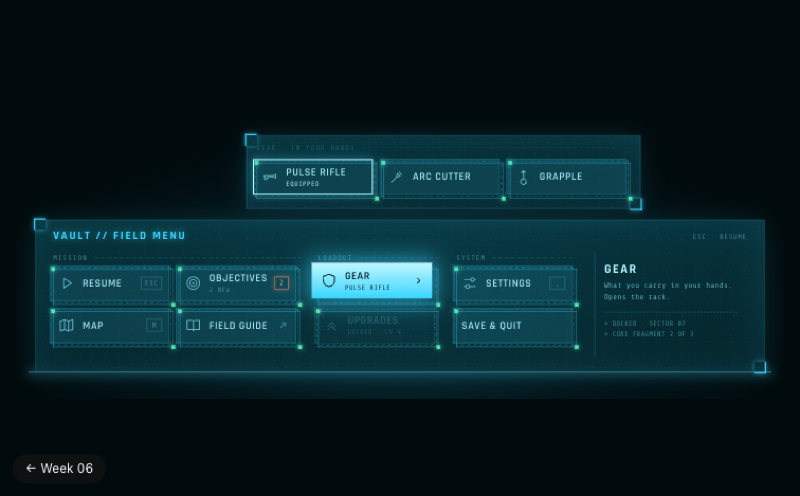
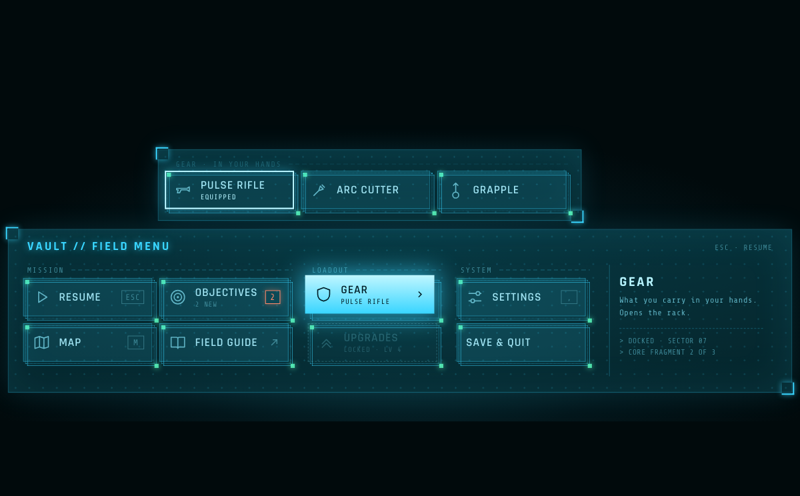
Week 06 Vault: every box grows out of what was pressed. The board's glass and corners start on the MENU prompt (no line of light); the Gear rack starts on Gear and rises above the board, centred over it; closing draws each back onto what opened it. Spec, captions and open thumbnail updated

Changed region(s): [[0.0, 0.2722, 1.0, 0.8468], [0.0312, 0.9375, 0.125, 0.9677]]

diff --git a/week-06/week-06-vault-menu.html b/week-06/week-06-vault-menu.html
@@ -5,13 +5,13 @@
   <meta name="viewport" content="width=device-width, initial-scale=1" />
   <title>Week 06 · Set 1 · Vault · In use and every state</title>
   <link rel="icon" href="../shared/favicon.svg" type="image/svg+xml" />
-  <link rel="stylesheet" href="week-06-vault.css?v=9" />
+  <link rel="stylesheet" href="week-06-vault.css?v=12" />
   <style>
   /* In use: the field menu of VAULT, a sci-fi salvage game, on its own. Shut, it is a MENU prompt.
-     Opened (the prompt, or Tab), a board of glass rises out of a line of light, seen straight on. Its items are wide, low boxes in sections, each built in steps like
+     Opened (the prompt, or Tab), a board of glass grows out of the prompt itself, seen straight on. Its items are wide, low boxes in sections, each built in steps like
      stacked frames. Point at a box and it steps up and fills with light; press it and it lights right
-     through. Gear opens a submenu: a second, smaller board stacked above the first. Esc, Resume or a
-     click outside takes it all down again, right to left, and folds the glass back into its line. */
+     through. Gear opens a submenu: a rack that grows out of Gear and rises above the board. Esc, Resume or a
+     click outside takes it all down again, right to left, and draws the glass back onto the prompt. */
   *, *::before, *::after { box-sizing: border-box; }
   html, body { margin: 0; }
   body { background: var(--void); color: var(--ink); font: 500 14px/1.3 var(--font); -webkit-font-smoothing: antialiased; }
@@ -27,23 +27,41 @@
   /* the prompt: all of the menu there is while it is shut */
   .prompt { left: 520px; top: 290px; width: 160px; height: 40px; display: flex; align-items: center; justify-content: center; gap: 12px; padding: 0; border: 0; cursor: pointer;
     background: rgba(57, 213, 255, .1); box-shadow: inset 0 0 0 1px rgba(57, 213, 255, .45); color: var(--ink); font: 600 15px/1 var(--font); letter-spacing: .2em;
-    transition: background-color var(--hover-time), box-shadow var(--hover-time), color var(--hover-time), opacity 160ms; }
+    transition: background-color var(--hover-time), box-shadow var(--hover-time), color var(--hover-time), opacity 120ms linear calc(var(--close-time) - 40ms); }
   .prompt kbd { padding: 3px 6px; border: 1px solid rgba(95, 179, 196, .5); font: 400 11px/1 var(--mono); letter-spacing: .06em; color: var(--ink-3); }
   .prompt:hover, .prompt:focus-visible { outline: none; background: rgba(57, 213, 255, .26); color: var(--cyan-hi); box-shadow: inset 0 0 0 1px var(--cyan), 0 0 22px rgba(57, 213, 255, .45); }
   .prompt:active { background: linear-gradient(#bff6ff, #39d5ff); color: #04232b; }
-  .stage.is-menu .prompt { opacity: 0; pointer-events: none; }
+  .stage.is-menu .prompt { opacity: 0; pointer-events: none; transition: opacity 80ms linear; }
 
-  /* ---------- the board: the bottom half of the screen ---------- */
-  .board { left: 30px; top: 190px; width: 1140px; height: 238px; visibility: hidden;
+  /* ---------- the board, and the Gear rack: each grows out of what was pressed ----------
+     A menu in a game shares the screen with everything else, so neither box asks for room it does not
+     own. Each starts as the frame of the thing pressed: its glass sits exactly on it and its two
+     corners sit on that thing's corners. Then the corners travel out to the box's own corners, top
+     left one way and bottom right the other, and the glass stretches between them. Put away, they
+     travel back onto the thing pressed and go out. --t0 --r0 --b0 --l0: where that thing sits,
+     measured in from each edge of the box. */
+  .grow > .board-glass { top: var(--t0); right: var(--r0); bottom: var(--b0); left: var(--l0); scale: 1 1; opacity: 0;
+    transition: top var(--gc) var(--ease-in-out) var(--gd), right var(--gc) var(--ease-in-out) var(--gd), bottom var(--gc) var(--ease-in-out) var(--gd), left var(--gc) var(--ease-in-out) var(--gd),
+      opacity 80ms linear calc(var(--gd) + var(--gc) - 40ms); }
+  .grow > .board-glass::before, .grow > .board-glass::after { display: none; }
+  .corner { position: absolute; width: 18px; height: 18px; border: var(--edge) solid var(--cyan); box-shadow: 0 0 8px rgba(57, 213, 255, .6); pointer-events: none; opacity: 0;
+    transition: top var(--gc) var(--ease-in-out) var(--gd), right var(--gc) var(--ease-in-out) var(--gd), bottom var(--gc) var(--ease-in-out) var(--gd), left var(--gc) var(--ease-in-out) var(--gd),
+      opacity 80ms linear calc(var(--gd) + var(--gc)); }
+  .corner.a { left: calc(var(--l0) - 3px); top: calc(var(--t0) - 3px); border-right: 0; border-bottom: 0; }
+  .corner.b { right: calc(var(--r0) - 3px); bottom: calc(var(--b0) - 3px); border-left: 0; border-top: 0; }
+  .stage.is-menu .board > .board-glass, .stage.is-menu .board > .corner, .sub.is-open > .board-glass, .sub.is-open > .corner { opacity: 1;
+    transition: top calc(var(--go) * .85) var(--ease-out) calc(var(--go) * .15), right calc(var(--go) * .85) var(--ease-out) calc(var(--go) * .15),
+      bottom calc(var(--go) * .85) var(--ease-out) calc(var(--go) * .15), left calc(var(--go) * .85) var(--ease-out) calc(var(--go) * .15), opacity 60ms linear; }
+  .stage.is-menu .board > .board-glass, .sub.is-open > .board-glass { top: 0; right: 0; bottom: 0; left: 0; }
+  .stage.is-menu .board > .corner.a, .sub.is-open > .corner.a { left: -3px; top: -3px; }
+  .stage.is-menu .board > .corner.b, .sub.is-open > .corner.b { right: -3px; bottom: -3px; }
+
+  /* the board takes the bottom half of the screen; it grows out of the MENU prompt, which sits inside it */
+  .board { --go: var(--open-time); --gc: var(--close-time); --gd: 0ms;
+    --t0: 100px; --r0: 490px; --b0: 98px; --l0: 490px;          /* the prompt: 160 x 40 at 490, 100 in the board */
+    left: 30px; top: 190px; width: 1140px; height: 238px; visibility: hidden;
     transition: visibility 0s calc(var(--close-time) + 160ms); }
   .stage.is-menu .board { visibility: visible; transition: visibility 0s; }
-  /* the line of light along its foot, then the glass rising out of it */
-  .board-line { position: absolute; left: -10px; right: -10px; bottom: -1px; height: 2px; background: var(--cyan-hi); box-shadow: 0 0 16px 3px var(--cyan); scale: 0 1; opacity: 0;
-    transition: scale 160ms var(--ease-out) var(--close-time), opacity 120ms linear calc(var(--close-time) + 120ms); }
-  .stage.is-menu .board-line { scale: 1 1; opacity: 1; transition: scale calc(var(--open-time) * .45) var(--ease-out), opacity 60ms linear; }
-  .stage.is-menu.is-settled .board-line { opacity: .35; transition: opacity 300ms; }
-  .board-glass { transform-origin: 50% 100%; scale: 1 0; opacity: 0; transition: scale var(--close-time) cubic-bezier(.6, 0, .4, 1), opacity 80ms linear calc(var(--close-time) - 80ms); }
-  .stage.is-menu .board-glass { scale: 1 1; opacity: 1; transition: scale calc(var(--open-time) * .7) var(--ease-out) calc(var(--open-time) * .3), opacity 60ms linear calc(var(--open-time) * .3); }
   .board-head, .detail { opacity: 0; transition: opacity 120ms; }
   .stage.is-menu .board-head, .stage.is-menu .detail { opacity: 1; transition: opacity 260ms var(--open-time); }
   .stage.is-leaving .board-head, .stage.is-leaving .detail { opacity: 0; transition: opacity 120ms; }
@@ -67,7 +85,7 @@
   .sections .slot { --ph: var(--phase); --st: var(--stack-time); --dt: var(--draw-time);
     --d: calc(var(--open-time) + var(--k) * var(--stack-step)); --dl: calc((var(--n) - 1 - var(--k)) * var(--leave-step)); }
   .sub .slot { --ph: var(--sub-phase); --st: var(--sub-time); --dt: calc(var(--draw-time) * .6);
-    --d: calc(20ms + var(--k) * var(--sub-step)); --dl: calc((2 - var(--k)) * var(--leave-step)); }
+    --d: calc(var(--sub-open) + var(--k) * var(--sub-step)); --dl: calc((2 - var(--k)) * var(--leave-step)); }
   .b-dot, .b-foot, .b-mid, .b-flash { position: absolute; pointer-events: none; }
 
   /* taken down (and at rest when shut): step 5 to step 1 */
@@ -111,14 +129,19 @@
   .log p.is-done::after { display: none; }
   @keyframes caret { 50% { opacity: 0; } }
 
-  /* ---------- the submenu: a smaller board, stacked above the first ---------- */
-  .sub { position: absolute; left: 330px; top: -132px; width: 616px; padding: 14px 16px 16px; visibility: hidden;
-    transition: visibility 0s calc(2 * var(--leave-step) + 4 * var(--out-phase) + 160ms); }
+  /* ---------- the submenu: the Gear rack ----------
+     It grows out of Gear and rises above the board, centred over Gear, a row of three boxes: its
+     corners leave Gear's corners and climb to its own, the glass stretching up between them. Its
+     boxes are built once the glass is out, the same steps as the board's, quicker. Put away, the
+     boxes come down first, then the glass sinks back onto Gear. */
+  .stage { --sub-down: calc(2 * var(--leave-step) + 4 * var(--out-phase) + 120ms); }   /* the rack's boxes are down by now */
+  .sub { --go: var(--sub-open); --gc: var(--sub-close); --gd: var(--sub-down);
+    --t0: 183px; --r0: 214px; --b0: -135px; --l0: 214px;          /* Gear, stepped up: 188 x 56 at 432, 67 in the board */
+    position: absolute; left: 218px; top: -116px; width: 616px; height: 104px; padding: 16px 16px 10px; visibility: hidden;
+    transition: visibility 0s calc(var(--sub-down) + var(--sub-close) + 120ms); }
   .sub.is-open { visibility: visible; transition: visibility 0s; }
-  .sub .board-glass { scale: 1 1; opacity: 0; transition: opacity 140ms linear calc(2 * var(--leave-step) + 4 * var(--out-phase)); }
-  .sub.is-open .board-glass { opacity: 1; transition: opacity 80ms linear; }
-  .sub .t-sect { margin-bottom: 18px; opacity: 0; transition: opacity 120ms; }
-  .sub.is-open .t-sect { opacity: 1; transition: opacity 200ms 80ms; }
+  .sub .t-sect { margin: 0 0 10px 10px; opacity: 0; transition: opacity 120ms; }   /* clear of its top corner */
+  .sub.is-open .t-sect { opacity: 1; transition: opacity 200ms var(--sub-open); }
   .sub .t-grid { --cols: 3; }
 
   .stage.is-still *, .stage.is-still *::before, .stage.is-still *::after { transition: none !important; animation: none !important; }
@@ -149,9 +172,9 @@
 
       <button class="prompt" type="button" aria-haspopup="menu" aria-expanded="false" aria-controls="board">MENU <kbd>TAB</kbd></button>
 
-      <div class="board" id="board">
-        <span class="board-line" aria-hidden="true"></span>
+      <div class="board grow" id="board">
         <span class="board-glass" aria-hidden="true"></span>
+        <span class="corner a" aria-hidden="true"></span><span class="corner b" aria-hidden="true"></span>
         <div class="board-head" aria-hidden="true"><b>VAULT // FIELD MENU</b><span>ESC · RESUME</span></div>
         <div class="sections" role="menu" aria-label="Field menu">
           <div class="section" role="group" aria-labelledby="sec-mission">
@@ -185,8 +208,9 @@
           <div class="log"><p>&gt; DOCKED · SECTOR 07</p><p>&gt; CORE FRAGMENT 2 OF 3</p></div>
         </div>
 
-        <div class="sub" id="sub-gear" role="menu" aria-label="Gear">
+        <div class="sub grow" id="sub-gear" role="menu" aria-label="Gear">
           <span class="board-glass" aria-hidden="true"></span>
+          <span class="corner a" aria-hidden="true"></span><span class="corner b" aria-hidden="true"></span>
           <div class="t-sect">Gear · in your hands</div>
           <div class="t-grid">
             <span class="slot" style="--k:0"><button class="tile" role="menuitemradio" aria-checked="true" data-gear="PULSE RIFLE" data-desc="Fast, light, short reach. Twelve rounds."><svg class="t-ico" viewBox="0 0 24 24" aria-hidden="true"><path d="M3 10h14l3-2v6l-3-2H9l-2 4H4l1-4H3z" fill="none" stroke="currentColor" stroke-linejoin="round"/></svg><span class="t-note">EQUIPPED</span><span class="t-label">Pulse rifle</span></button></span>
@@ -320,8 +344,9 @@
         if (t.getAttribute('aria-disabled') === 'true') { t.classList.remove('is-no'); void t.offsetWidth; t.classList.add('is-no'); write(t.dataset.log); return; }
         if (t.dataset.act === 'gear') {
           const on = !sub.classList.contains('is-open');
-          sub.classList.toggle('is-open', on); gear.setAttribute('aria-expanded', on);
-          if (on) setTimeout(() => sub.querySelector('[aria-checked="true"]').focus({ preventScroll: true }), 20 + 3 * ms('--sub-phase') + ms('--sub-time') * .5);
+          if (!on) { closeSub(false); return; }
+          sub.classList.add('is-open'); gear.setAttribute('aria-expanded', 'true');
+          setTimeout(() => sub.querySelector('[aria-checked="true"]').focus({ preventScroll: true }), ms('--sub-open') + 3 * ms('--sub-phase') + ms('--sub-time') * .5);
           return;
         }
         closeSub(false); flash(t);
@@ -396,6 +421,6 @@
     addEventListener('resize', fit); fit(); document.fonts?.ready.then(fit);
       })();
   </script>
-  <script src="week-06-vault-spec.js?v=7"></script>
+  <script src="week-06-vault-spec.js?v=11"></script>
 </body>
 </html>

diff --git a/week-06/week-06.html b/week-06/week-06.html
@@ -607,8 +607,8 @@
       <div class="set-grid">
         <div class="set-box" id="set-1">
           <button type="button" class="set-card" aria-haspopup="dialog" aria-controls="dlg-1">
-            <span class="set-thumbs" aria-hidden="true"><img src="images/process/vault-menu-1.png?v=12" alt="" loading="lazy" /><img src="images/process/vault-system-1.png?v=12" alt="" loading="lazy" /></span>
-            <span class="set-head"><span class="set-num">Set 1</span><span class="set-name">Vault</span><span class="set-line">Futuristic. The field menu of a sci-fi salvage game, after a holographic file database: a board of glass rises out of a line of light, and each of its items, plain boxes in sections, is built in steps like stacked frames: corner nodes, a footprint drawn out of them, a dotted layer, then the box on top.</span></span>
+            <span class="set-thumbs" aria-hidden="true"><img src="images/process/vault-menu-1.png?v=14" alt="" loading="lazy" /><img src="images/process/vault-system-1.png?v=12" alt="" loading="lazy" /></span>
+            <span class="set-head"><span class="set-num">Set 1</span><span class="set-name">Vault</span><span class="set-line">Futuristic. The field menu of a sci-fi salvage game, after a holographic file database: a board of glass grows out of the MENU prompt, and each of its items, plain boxes in sections, is built in steps like stacked frames: corner nodes, a footprint drawn out of them, a dotted layer, then the box on top.</span></span>
             <span class="set-open" aria-hidden="true"></span>
           </button>
           <dialog class="set-dialog" id="dlg-1" aria-labelledby="dlg-1-title">
@@ -620,11 +620,11 @@
               <h4>Prototypes</h4>
               <div class="proto-grid" style="grid-template-columns:1fr">
                 <figure class="proto">
-                  <iframe style="height:auto;aspect-ratio:1200/540" src="week-06-vault-menu.html?v=11" title="Vault in use and every state: a holographic file database, then every tile configuration in enabled, hover, pressed and open" loading="lazy"></iframe>
+                  <iframe style="height:auto;aspect-ratio:1200/540" src="week-06-vault-menu.html?v=15" title="Vault in use and every state: a holographic file database, then every tile configuration in enabled, hover, pressed and open" loading="lazy"></iframe>
                   <figcaption>
                     <b>In use and every state</b>
-                    <span>Shut, the menu is a MENU prompt. Click it or press Tab: a line of light runs out and the glass rises from it, then the boxes are built left to right, each in steps: two corner nodes land, a footprint is drawn out of them, a dotted layer rises, the box rises on top with an edge flash, and its writing comes up last. Point at a box and it steps up; press it and it lights through. Gear opens a smaller board above it, built the same way but quicker. Arrows move between tiles; Esc, Resume or a click outside takes the boxes down right to left, the same five steps backwards and each one visible, and folds the glass away. Under it, every state: one tile build in every configuration (label only, left icon, key, badge, right icon, a note line, a submenu tile and a tile in the submenu, unavailable, a section) in enabled, hover, pressed, and open or chosen. The spec follows.</span>
-                    <button type="button" class="viewer-open" data-wide data-src="week-06-vault-menu.html?v=11">View larger</button>
+                    <span>Shut, the menu is a MENU prompt. Click it or press Tab: the glass grows out of the prompt itself, its two corners leaving the prompt&rsquo;s corners for the board&rsquo;s, then the boxes are built left to right, each in steps: two corner nodes land, a footprint is drawn out of them, a dotted layer rises, the box rises on top with an edge flash, and its writing comes up last. Point at a box and it steps up; press it and it lights through. Gear&rsquo;s rack grows out of Gear the same way and rises above the board, centred over it, a row of three boxes. Picked or put away, the boxes come down and the glass draws back onto what opened it. Arrows move between tiles; Esc, Resume or a click outside takes the boxes down right to left, the same five steps backwards and each one visible, and draws the glass back onto the prompt. Under it, every state: one tile build in every configuration (label only, left icon, key, badge, right icon, a note line, a submenu tile and a tile in the submenu, unavailable, a section) in enabled, hover, pressed, and open or chosen. The spec follows.</span>
+                    <button type="button" class="viewer-open" data-wide data-src="week-06-vault-menu.html?v=15">View larger</button>
                   </figcaption>
                 </figure>
               </div>
@@ -636,7 +636,7 @@
                 <figure><img src="images/process/harvest-menu-1.png" alt="Harvest, a pixel farming game&rsquo;s menu" loading="lazy" /><figcaption>Harvest: a pixel farm, moving in steps.</figcaption></figure>
                 <figure><img src="images/process/ledger-menu-1.png" alt="Ledger, a finance app&rsquo;s Move money menu" loading="lazy" /><figcaption>Ledger: a finance app, smooth springs.</figcaption></figure>
                 <figure><img src="images/process/vault-menu-0.png?v=12" alt="Vault, the menu shut" loading="lazy" /><figcaption>Vault, shut: only the MENU prompt.</figcaption></figure>
-                <figure><img src="images/process/vault-menu-1.png?v=12" alt="Vault, the menu and its submenu open" loading="lazy" /><figcaption>Vault, open: the board, Gear&rsquo;s rack stacked above it.</figcaption></figure>
+                <figure><img src="images/process/vault-menu-1.png?v=14" alt="Vault, the menu and its submenu open" loading="lazy" /><figcaption>Vault, open: Gear&rsquo;s rack risen out of Gear, above the board.</figcaption></figure>
               </div>
               <p class="process-label">Menu system</p>
               <div class="process-grid">

diff --git a/week-06/week-06-vault-spec.js b/week-06/week-06-vault-spec.js
@@ -74,16 +74,17 @@
     ]],
     ['Submenu', [
       ['Form', 'a smaller board, stacked above the first'],
-      ['Sits', 'above the board, over its row'],
+      ['Sits', 'above the board, centred over Gear, 12px clear of it'],
+      ['Opens', `out of Gear: its corners leave Gear's corners for its own, the glass stretching between them, ${tok('--sub-open')}; then its boxes`],
       ['Its boxes', `built the same five steps, quicker: ${tok('--sub-phase')} apart, rise ${tok('--sub-time')}, ${tok('--sub-step')} between boxes`],
-      ['Put away', `the same five steps backwards, ${tok('--out-phase')} apart`],
+      ['Put away', `the same five steps backwards, ${tok('--out-phase')} apart; then the glass draws back onto Gear, ${tok('--sub-close')}`],
       ['Tiles', 'three, one chosen at a time'],
     ]],
     ['Motion · the board', [
-      ['Opens', `${tok('--open-time')}: a line of light, then the glass rises from it`],
+      ['Opens', `${tok('--open-time')}: out of the MENU prompt, its corners leaving the prompt's corners for the board's`],
       ['Boxes built', `left to right, ${tok('--stack-step')} apart`],
       ['Taken down', `right to left, ${tok('--leave-step')} apart`],
-      ['Glass folds', `${tok('--close-time')}, back into its line`],
+      ['Glass draws back', `${tok('--close-time')}, onto the prompt, which comes back`],
       ['Hover', `${tok('--hover-time')}, ${tok('--ease-out')}`],
     ]],
     ['Motion · one box built', [

diff --git a/week-06/week-06-vault.css b/week-06/week-06-vault.css
@@ -35,10 +35,11 @@
 
   /* motion */
   --ease-out: cubic-bezier(.16, 1, .3, 1);
+  --ease-in-out: cubic-bezier(.6, 0, .4, 1);   /* a box drawing back onto what opened it */
   --hover-time: 220ms;
   --lift: 4px;               /* pointed at, a box steps up and to the left by this much */
-  --open-time: 380ms;        /* the board: a line of light along the bottom, then the glass rises from it */
-  --close-time: 240ms;       /* the glass folds back down into its line */
+  --open-time: 380ms;        /* the board grows out of the MENU prompt to the bottom half of the screen */
+  --close-time: 240ms;       /* the board draws back onto the prompt */
   /* the tiles are stacked onto the board, one layer at a time */
   --stack-time: 340ms;       /* the box takes this long to rise onto its stack */
   --stack-step: 45ms;        /* the next box starts this much later, left to right */
@@ -54,6 +55,8 @@
   --out-phase: 70ms;         /* taking a box down: one step after the next, so each can be seen */
   /* the Gear rack is built the same way, quicker: it answers a click inside the menu */
   --sub-phase: 35ms; --sub-step: 30ms; --sub-time: 220ms;
+  --sub-open: 260ms;         /* the rack grows out of Gear and rises above the board */
+  --sub-close: 200ms;        /* once its boxes are down, the rack draws back onto Gear */
   --type-speed: 14ms;        /* the log types a letter at a time */
 }
 
